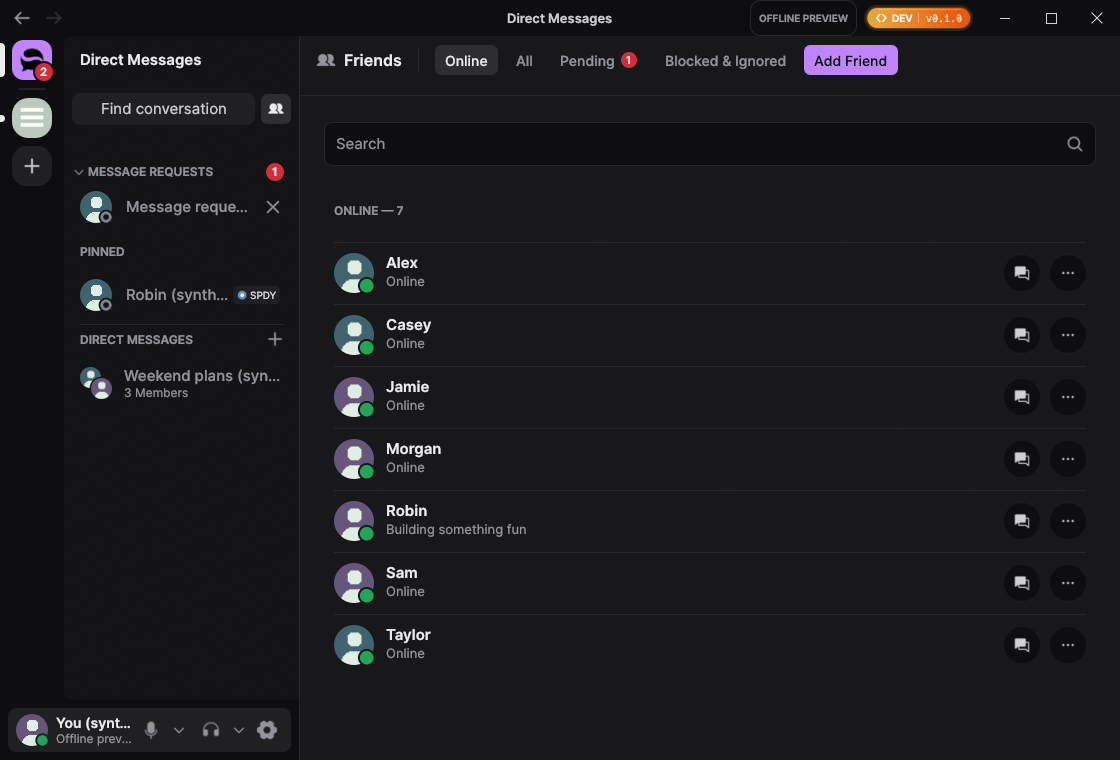
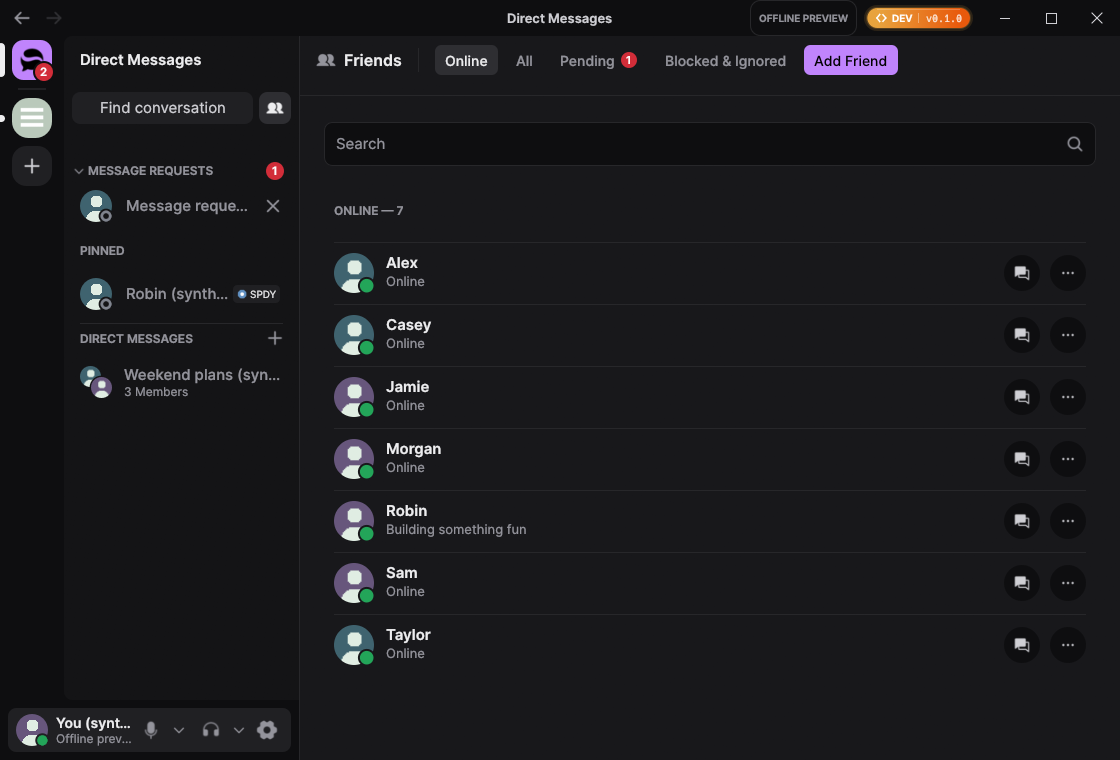
docs: refresh the accent-text evidence on top of #1176
- Recaptures the full windows with the levelled Friends button and the `--demo-accent` flag from #1176; the label crops are unchanged.

diff --git a/docs/pr-evidence/accent-text-coverage-ramp/README.md b/docs/pr-evidence/accent-text-coverage-ramp/README.md
@@ -1,9 +1,9 @@
 # Accent text coverage evidence
 
-Baseline: `e5fe9f0b` (`main`). Both demo binaries were built with the pinned Rust 1.99.1 and
+Baseline: `994b3128`, the head of #1176 (`main` plus the levelled Friends button and the
+demo-only `--demo-accent` flag). Both demo binaries were built with the pinned Rust 1.99.1 and
 `--locked -p serein --features demo` on Windows 11 (10.0.26200), as native wgpu windows at
-100% scale (96 dpi) and 1120 × 760. The baseline is `main` plus this change's demo-only
-`--demo-accent=rrggbb` flag, which `main` lacks; nothing else differs.
+100% scale (96 dpi) and 1120 × 760.
 
 `--demo-accent=c084fc` is a light purple whose accent text is black, since white stays under
 4.5:1 on it. No account, network or live session was used.
@@ -17,4 +17,5 @@ Measured on the captures (one pixel per point): the only pixels that differ betw
 builds are label glyphs, 375 px in "Add Friend" and 486 px in "Create theme". Glyph coverage
 summed over "Add Friend" falls from 309 to 249 (−19%) and over "Create theme" from 350 to 276
 (−21%), and the label bounds do not move. With the default palette (white on azure) no twin
-faces are published and the capture is unchanged.
+faces are published; a capture of that palette on `main` and on a build with only this change
+was pixel-identical.
